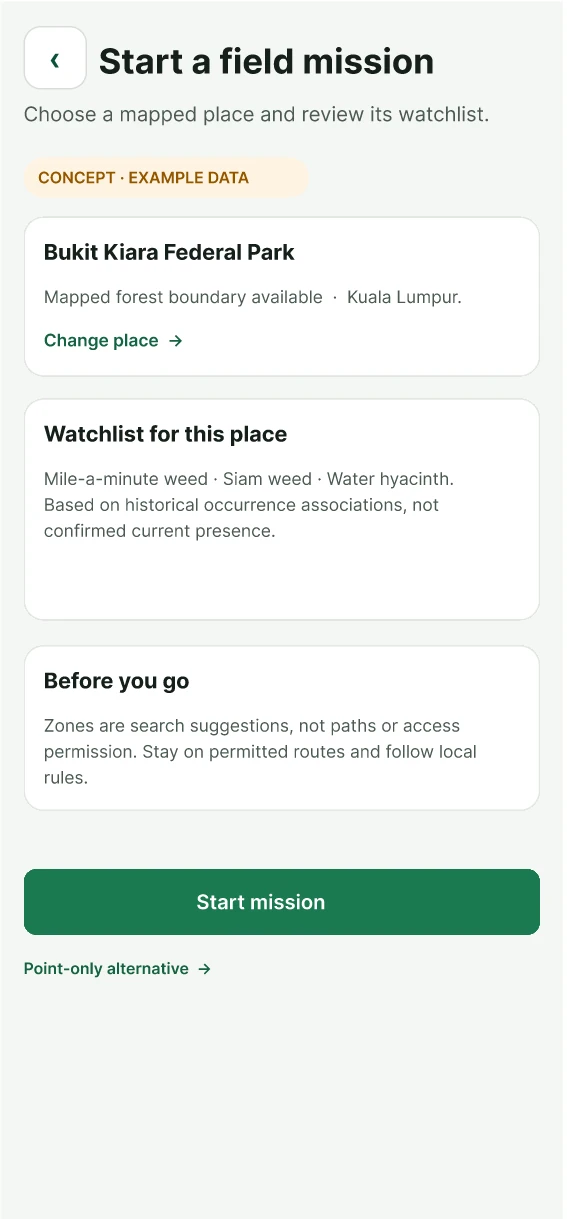
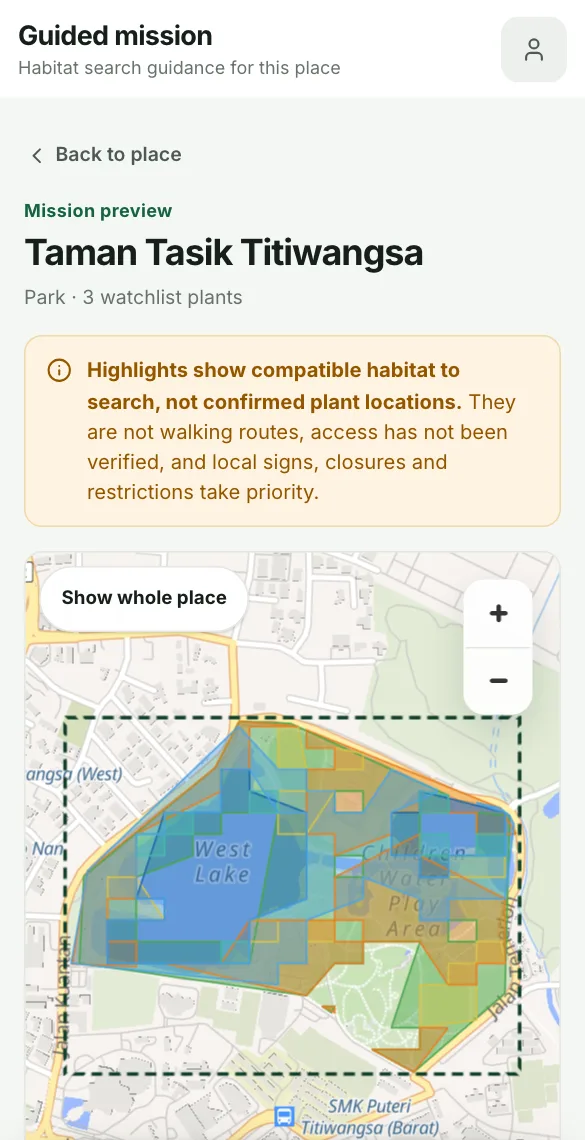
fix: audit Epics 8 and 10 and tidy the follow-up sighting sheet
- Assistant: replace the 'Why is it invasive?' chip, which is always refused
  without the semantic judge, with 'What are its impacts?'; offer the spread
  chip only for species with reviewed spread pathways; show depth controls
  only for generated answers; keep one persistent live region.
- Welcome: no flash of the page for returning users while identity loads;
  cache welcome images for offline use; replace concept mock-ups with real
  app screens; AC 10.1.1/10.2.1 wording; 44 px nav and SDG links; stronger
  tablet hero wash; hero fetchpriority.
- Sighting sheet: photos below a follow-up card sit inset instead of bleeding
  mid-sheet; hide the Latin line when it repeats the title.

diff --git a/src/features/scan/PlantAssistantPanel.tsx b/src/features/scan/PlantAssistantPanel.tsx
@@ -21,13 +21,26 @@ const TOPIC_LABELS: Record<string, string> = {
 }
 
 type Depth = 'standard' | 'simpler' | 'detailed'
+const SPREAD_QUESTION = 'How does it spread?'
 const SUGGESTIONS = [
   'What does this plant look like?',
   'Where does it grow?',
-  'Why is it invasive?',
-  'How does it spread?',
+  'What are its impacts?',
+  SPREAD_QUESTION,
   'How should I respond safely?',
 ]
+// Species whose reviewed knowledge pack documents spread pathways. Kept in step
+// with the backend by backend/tests/test_assistant_suggestions.py.
+export const SPREAD_DOCUMENTED_SPECIES = new Set([
+  'bidens-pilosa', 'chromolaena-odorata', 'cynodon-dactylon', 'cyperus-rotundus',
+  'eichhornia-crassipes', 'eleusine-indica', 'impatiens-balsamina', 'limnocharis-flava',
+  'mikania-micrantha', 'mimosa-diplotricha', 'mimosa-pigra', 'oxalis-corniculata',
+  'parthenium-hysterophorus', 'psidium-guajava', 'ruellia-blechum', 'salvinia-molesta', 'sida-acuta',
+])
+
+export function suggestionsFor(speciesId: string) {
+  return SUGGESTIONS.filter(text => text !== SPREAD_QUESTION || SPREAD_DOCUMENTED_SPECIES.has(speciesId))
+}
 
 export function assistantSpeciesForScan(result: IdentifyResult) {
   if (result.outcome === 'other_plant' || result.outcome === 'uncertain') return null
@@ -79,7 +92,9 @@ export function PlantAssistantPanel({ result }: { result: IdentifyResult }) {
       if (attempt.signal.aborted) return
       setResponse(next)
       setResponseQuestion(trimmed)
-      if (next.answerability === 'answerable') answered.current.add(trimmed.toLowerCase())
+      // Only generated answers can be re-explained at another depth; source
+      // fallbacks return the same reviewed text whatever depth is requested.
+      if (next.status === 'answer') answered.current.add(trimmed.toLowerCase())
     } catch (cause) {
       setError(cause instanceof ApiError && cause.status === 429
         ? 'You have asked several questions recently. Wait a minute, then try again.'
@@ -112,7 +127,7 @@ export function PlantAssistantPanel({ result }: { result: IdentifyResult }) {
           <p>Questions about <strong>{species!.scientific_name}</strong>, based on your scan and approved sources. The assistant explains the scan; it does not identify the plant.</p>
           <p className="plant-assistant__privacy">Use English and leave out personal details, coordinates and access codes. This conversation is temporary and clears when you leave this scan.</p>
           <div className="plant-assistant__suggestions" role="group" aria-label="Suggested plant questions">
-            {SUGGESTIONS.map(text => <button key={text} type="button" disabled={pending} onClick={() => void submitQuestion(text)}>{text}</button>)}
+            {suggestionsFor(species!.species_id).map(text => <button key={text} type="button" disabled={pending} onClick={() => void submitQuestion(text)}>{text}</button>)}
           </div>
           <form onSubmit={submit}>
             <label htmlFor="plant-question">Your question</label>
@@ -131,13 +146,14 @@ export function PlantAssistantPanel({ result }: { result: IdentifyResult }) {
           </div>}
           {pending && <p role="status">Checking evidence for your question…</p>}
           {error && <p role="alert">{error}</p>}
-          {response && !pending && !repeat && <div className="plant-assistant__response" aria-live="polite">
+          <div aria-live="polite">
+          {response && !pending && !repeat && <div className="plant-assistant__response">
             <h3>{response.status === 'fallback' ? 'Source information' : response.status === 'answer' ? 'Answer' : 'Evidence is insufficient'}</h3>
             {response.status === 'fallback' && <p className="plant-assistant__notice">Here is the relevant approved source information.</p>}
             <p className="plant-assistant__answer">{response.answer}</p>
             {response.status === 'insufficient_evidence' && topicLabels.length > 0 &&
               <p className="plant-assistant__coverage">Available information for this species: {topicLabels.join(', ')}.</p>}
-            {response.answerability === 'answerable' && <div className="plant-assistant__choices" role="group" aria-label="Explanation level">
+            {response.status === 'answer' && <div className="plant-assistant__choices" role="group" aria-label="Explanation level">
               <button type="button" onClick={() => void submitQuestion(responseQuestion, 'simpler', false)}>Simpler explanation</button>
               <button type="button" onClick={() => void submitQuestion(responseQuestion, 'standard', false)}>Standard explanation</button>
               <button type="button" onClick={() => void submitQuestion(responseQuestion, 'detailed', false)}>More detail</button>
@@ -153,6 +169,7 @@ export function PlantAssistantPanel({ result }: { result: IdentifyResult }) {
             </>}
             <p className="plant-assistant__safety">{response.safetyBoundary}</p>
           </div>}
+          </div>
         </>}
       </>}
     </section>

diff --git a/src/features/welcome/welcome-content.ts b/src/features/welcome/welcome-content.ts
@@ -38,24 +38,24 @@ export const SCREENS = {
   },
   mission: {
     src: '/welcome/screen-field-mission.webp',
-    width: 567,
-    height: 1219,
-    alt: 'Concept screen with example data: choose a mapped place, review its plant watchlist and start a field mission',
-    placeholder: true,
+    width: 585,
+    height: 1140,
+    alt: 'InvaTrace guided mission preview for Taman Tasik Titiwangsa: compatible habitat highlighted on the map for 3 watchlist plants',
+    placeholder: false,
   },
   events: {
     src: '/welcome/screen-events.webp',
-    width: 290,
-    height: 530,
-    alt: 'Concept screen with example data: discover a community survey event at a mapped place',
-    placeholder: true,
+    width: 585,
+    height: 1110,
+    alt: 'InvaTrace community events: find surveys by species and date, or host your own',
+    placeholder: false,
   },
   followUp: {
     src: '/welcome/screen-follow-up.webp',
-    width: 563,
-    height: 1218,
-    alt: 'Concept screen with example data: Follow-up needed. Grey map markers show reported removals awaiting an on-site check',
-    placeholder: true,
+    width: 585,
+    height: 1195,
+    alt: 'InvaTrace sighting marked Follow-up needed after a reported removal, with a Start follow-up button',
+    placeholder: false,
   },
 } satisfies Record<string, WelcomeImage>
 
@@ -112,16 +112,16 @@ export const FEATURES = [
   {
     id: 'changes',
     title: 'See what changes',
-    detail: 'Follow places you care about. Revisit recorded sightings, check for regrowth and add a new observation.',
+    detail: 'Adopt places you care about. Revisit recorded sightings, check for regrowth and add a new observation.',
     screen: SCREENS.followUp,
   },
 ] as const
 
 // Icon names must exist in src/components/Icon.tsx.
 export const STEPS = [
-  { title: 'Discover', detail: 'Explore mapped places and the plants recorded there.', icon: 'MapPinned' },
-  { title: 'Identify', detail: 'Photograph a plant to get a suggested identification.', icon: 'Camera' },
+  { title: 'Discover what to look for', detail: 'Explore mapped places and the plants recorded there.', icon: 'MapPinned' },
+  { title: 'Identify a plant', detail: 'Photograph a plant to get a suggested identification.', icon: 'Camera' },
   { title: 'Follow safe guidance', detail: 'Read the safety guidance before you touch anything.', icon: 'ShieldCheck' },
-  { title: 'Report', detail: 'Record what you saw and where you saw it.', icon: 'Send' },
-  { title: 'Monitor', detail: 'Return later to check the same spot for regrowth.', icon: 'RefreshCw' },
+  { title: 'Report a sighting', detail: 'Record what you saw and where you saw it.', icon: 'Send' },
+  { title: 'Monitor places over time', detail: 'Return later to check the same spot for regrowth.', icon: 'RefreshCw' },
 ] as const

diff --git a/src/features/welcome/WelcomePage.tsx b/src/features/welcome/WelcomePage.tsx
@@ -55,6 +55,9 @@ export function WelcomePage() {
             width={HERO_IMAGE.landscape.width}
             height={HERO_IMAGE.landscape.height}
             alt={HERO_IMAGE.alt}
+            // Largest image on the first screen. React 18 only passes the
+            // attribute through in lower case.
+            {...{ fetchpriority: 'high' }}
           />
         </picture>
 
@@ -71,7 +74,7 @@ export function WelcomePage() {
             <p className="welcome-eyebrow">For Malaysia’s parks and trails</p>
             <h1>Spot invasive plants. Care for the places you love.</h1>
             <p className="welcome-hero__lede">
-              An unfamiliar plant could be changing the place you love. InvaTrace helps you recognise
+              An unfamiliar plant could be changing a park or trail you love in Malaysia. InvaTrace helps you recognise
               invasive plants, record what you find and return to see what changes.
             </p>
             <div className="welcome-actions">
@@ -132,7 +135,7 @@ export function WelcomePage() {
 
         <section className="welcome-goal" aria-labelledby="welcome-goal-title">
           <h2 id="welcome-goal-title" className="welcome-eyebrow welcome-eyebrow--green">
-            SDG 15 · Life on Land
+            {SDG.target}
           </h2>
           <div>
             <p>{SDG.statement}</p>
@@ -164,7 +167,7 @@ export function WelcomePage() {
         <section className="welcome-how" id={HOW_ID} aria-labelledby={`${HOW_ID}-title`}>
           <div className="welcome-how__inner">
             <p className="welcome-eyebrow welcome-eyebrow--green">How it works</p>
-            <h2 id={`${HOW_ID}-title`} tabIndex={-1}>From curiosity to action</h2>
+            <h2 id={`${HOW_ID}-title`} tabIndex={-1}>How InvaTrace helps</h2>
             <ol className="welcome-steps">
               {STEPS.map((step) => (
                 <li key={step.title}>

diff --git a/src/features/welcome/welcome.css b/src/features/welcome/welcome.css
@@ -123,6 +123,9 @@
 .welcome-nav .brand-mark { border-color: transparent; }
 .welcome-nav__links { display: none; align-items: center; gap: 26px; }
 .welcome-nav__links > a:not(.welcome-btn) {
+  display: inline-flex;
+  align-items: center;
+  min-height: 44px;
   color: #FFFFFF;
   font-size: 14px;
   font-weight: 600;
@@ -247,7 +250,7 @@
   gap: 4px;
 }
 .welcome-goal p { max-width: 58ch; color: var(--ink); font-size: clamp(17px, 1.6vw, 20px); line-height: 1.5; letter-spacing: -0.01em; }
-.welcome-goal a { display: inline-block; margin-top: 10px; color: var(--green-dark); font-size: 14px; font-weight: 600; text-underline-offset: 4px; }
+.welcome-goal a { display: inline-flex; align-items: center; min-height: 44px; margin-top: 10px; color: var(--green-dark); font-size: 14px; font-weight: 600; text-underline-offset: 4px; }
 
 /* ---------- Feature rows ---------- */
 
@@ -386,6 +389,16 @@
   .welcome-feature__stage { height: 520px; }
 
   .welcome-footer { display: flex; justify-content: space-between; gap: 24px; text-align: left; }
+}
+
+@media (min-width: 720px) and (max-width: 959px) {
+  /* Single-column hero on tablets: the lede runs across the bright path in the
+     photo, so carry the dark wash further right. */
+  .welcome-hero::after {
+    background:
+      linear-gradient(180deg, rgba(8, 30, 21, 0.55) 0%, rgba(8, 30, 21, 0) 26%),
+      linear-gradient(90deg, rgba(8, 30, 21, 0.82) 0%, rgba(8, 30, 21, 0.66) 55%, rgba(8, 30, 21, 0.3) 85%, rgba(8, 30, 21, 0.2) 100%);
+  }
 }
 
 @media (min-width: 960px) {

diff --git a/e2e/welcome.spec.ts b/e2e/welcome.spec.ts
@@ -12,7 +12,7 @@ test('a first-time visitor can read the welcome page without an identity', async
   for (const impact of ['Native vegetation', 'Native habitats', 'Shared natural spaces']) {
     await expect(page.getByRole('heading', { name: impact })).toBeVisible()
   }
-  for (const step of ['Discover', 'Identify', 'Follow safe guidance', 'Report', 'Monitor']) {
+  for (const step of ['Discover what to look for', 'Identify a plant', 'Follow safe guidance', 'Report a sighting', 'Monitor places over time']) {
     await expect(page.getByRole('heading', { level: 3, name: step, exact: true })).toBeVisible()
   }
   await expect(page.getByRole('link', { name: /MyIAS/ })).toHaveAttribute('href', 'https://www.mybis.gov.my/ias/')
@@ -21,7 +21,7 @@ test('a first-time visitor can read the welcome page without an identity', async
 test('How it works moves to the five steps', async ({ page }) => {
   await page.goto('/')
   await page.getByRole('link', { name: 'How it works' }).first().click()
-  await expect(page.getByRole('heading', { name: 'From curiosity to action' })).toBeInViewport()
+  await expect(page.getByRole('heading', { name: 'How InvaTrace helps' })).toBeInViewport()
   await expect(page).toHaveURL(/#how-it-works$/)
 })
 

diff --git a/src/features/map/SightingDetailsSheet.tsx b/src/features/map/SightingDetailsSheet.tsx
@@ -168,7 +168,7 @@ export function SightingDetailsSheet() {
 
               <header className="pin-sheet__heading">
                 <h2 tabIndex={-1} data-dialog-initial>{data.speciesName}</h2>
-                <p className="pin-sheet__latin">{data.latinName}</p>
+                {data.latinName !== data.speciesName && <p className="pin-sheet__latin">{data.latinName}</p>}
                 <div className="pin-sheet__summary" aria-label={sightingSummaryLabel(data)}>
                   <span className={`pin-sheet__risk pin-sheet__risk--${tier}`}>
                     <span aria-hidden className="pin-sheet__risk-dot" style={{ background: tierInfo.fill }} />
@@ -220,7 +220,7 @@ export function SightingDetailsSheet() {
                 </section>
               )}
 
-              {data.followUpState && media}
+              {data.followUpState && <div className="pin-sheet__media-inset">{media}</div>}
 
               <section className="pin-sheet__record" aria-labelledby="sighting-record-heading">
                 <h3 id="sighting-record-heading">Report information</h3>

diff --git a/src/features/scan/PlantAssistantPanel.test.ts b/src/features/scan/PlantAssistantPanel.test.ts
@@ -1,7 +1,7 @@
 import { afterEach, describe, expect, it, vi } from 'vitest'
 import type { IdentifyResult } from '@/types'
 import * as catalogue from '@shared/catalogue'
-import { assistantSpeciesForScan } from './PlantAssistantPanel'
+import { assistantSpeciesForScan, suggestionsFor } from './PlantAssistantPanel'
 
 vi.mock('@/services/api-client', () => ({ api: vi.fn(), ApiError: class extends Error {} }))
 
@@ -25,5 +25,13 @@ describe('assistant scan eligibility', () => {
 
   it('keeps an unknown target name unavailable', () => {
     expect(assistantSpeciesForScan({ ...accepted, speciesId: 'unknown', scientificName: 'Unknown' })).toBeNull()
+  })
+})
+
+describe('suggested questions', () => {
+  it('offers the spread question only where spread pathways are documented', () => {
+    expect(suggestionsFor('mikania-micrantha')).toContain('How does it spread?')
+    expect(suggestionsFor('asclepias-curassavica')).not.toContain('How does it spread?')
+    expect(suggestionsFor('asclepias-curassavica')).toHaveLength(4)
   })
 })

diff --git a/vite.config.ts b/vite.config.ts
@@ -97,6 +97,17 @@ export default defineConfig({
             },
           },
           {
+            // Welcome page photography (.webp is not precached). Cache what a
+            // visitor has seen so "/welcome" still renders offline.
+            urlPattern: ({ url }) => url.pathname.startsWith('/welcome/'),
+            handler: 'CacheFirst',
+            options: {
+              cacheName: 'invatrace-welcome-v1',
+              expiration: { maxEntries: 12, maxAgeSeconds: 90 * 24 * 60 * 60 },
+              cacheableResponse: { statuses: [200] },
+            },
+          },
+          {
             // The hashed runtime is large, so cache it after first inference
             // instead of slowing service-worker installation with a precache.
             urlPattern: ({ url }) => /\/assets\/ort-wasm-.+\.wasm$/.test(url.pathname),

diff --git a/src/features/welcome/WelcomeRoute.tsx b/src/features/welcome/WelcomeRoute.tsx
@@ -9,6 +9,9 @@ import { welcomeRedirect } from './welcome-entry'
 export function WelcomeRoute() {
   const status = usePrivateAccess((state) => state.status)
   const hasProfile = usePrivateAccess((state) => state.profile !== null)
+  // Stored identity is still being read: render nothing rather than flash the
+  // welcome page at a returning user before sending them to the map.
+  if (status === 'initializing') return null
   const target = welcomeRedirect(status, hasProfile)
   return target ? <Navigate to={target} replace /> : <WelcomePage />
 }

diff --git a/src/features/welcome/WelcomePage.test.tsx b/src/features/welcome/WelcomePage.test.tsx
@@ -36,7 +36,7 @@ describe('public welcome page', () => {
     expect(positions.every((position) => position > -1)).toBe(true)
     expect([...positions].sort((a, b) => a - b)).toEqual(positions)
     expect(STEPS.map((step) => step.title)).toEqual(
-      ['Discover', 'Identify', 'Follow safe guidance', 'Report', 'Monitor'],
+      ['Discover what to look for', 'Identify a plant', 'Follow safe guidance', 'Report a sighting', 'Monitor places over time'],
     )
   })
 

diff --git a/src/features/map/sighting-details.css b/src/features/map/sighting-details.css
@@ -81,6 +81,19 @@
   background: var(--bg-alt);
 }
 
+/* Below a follow-up card the photos sit inside the content column instead of
+   bleeding to the sheet edges as they do at the top of the sheet. */
+.pin-sheet__media-inset {
+  display: grid;
+  gap: 10px;
+  margin-top: 16px;
+}
+.pin-sheet__media-inset .pin-sheet__reference {
+  width: 100%;
+  margin: 0;
+  border-radius: 14px;
+}
+
 .pin-sheet__photo {
   width: 100%;
   height: clamp(170px, 24vh, 210px);

diff --git a/backend/tests/test_assistant_suggestions.py b/backend/tests/test_assistant_suggestions.py
@@ -1,0 +1,42 @@
+"""The scan panel's suggested questions must be answerable without the judge."""
+from __future__ import annotations
+
+import re
+from pathlib import Path
+
+import pytest
+
+from app.domain.plant_assistant import SupportState, get_retriever
+
+PANEL = Path(__file__).resolve().parents[2] / "src/features/scan/PlantAssistantPanel.tsx"
+
+
+def panel_source() -> str:
+    return PANEL.read_text(encoding="utf-8")
+
+
+def suggestions() -> list[str]:
+    block = re.search(r"const SUGGESTIONS = \[(.*?)\]", panel_source(), re.S).group(1)
+    spread = re.search(r"const SPREAD_QUESTION = '([^']+)'", panel_source()).group(1)
+    return [spread if item.strip() == "SPREAD_QUESTION" else item.strip().strip("'")
+            for item in block.split(",") if item.strip()]
+
+
+def spread_species() -> set[str]:
+    block = re.search(r"SPREAD_DOCUMENTED_SPECIES = new Set\(\[(.*?)\]\)", panel_source(), re.S).group(1)
+    return set(re.findall(r"'([^']+)'", block))
+
+
+def test_spread_species_list_matches_the_knowledge_pack() -> None:
+    r = get_retriever()
+    assert spread_species() == {s for s in r.species if "spread" in r.covered_topics(s)}
+
+
+@pytest.mark.parametrize("question", suggestions())
+def test_every_offered_suggestion_is_supported_for_every_species(question: str) -> None:
+    r = get_retriever()
+    for species_id in r.species:
+        if question == "How does it spread?" and species_id not in spread_species():
+            continue
+        state = r.classify(species_id, question, r.search(species_id, question)).state
+        assert state == SupportState.DEMONSTRABLY_SUPPORTED, (species_id, question, state)
